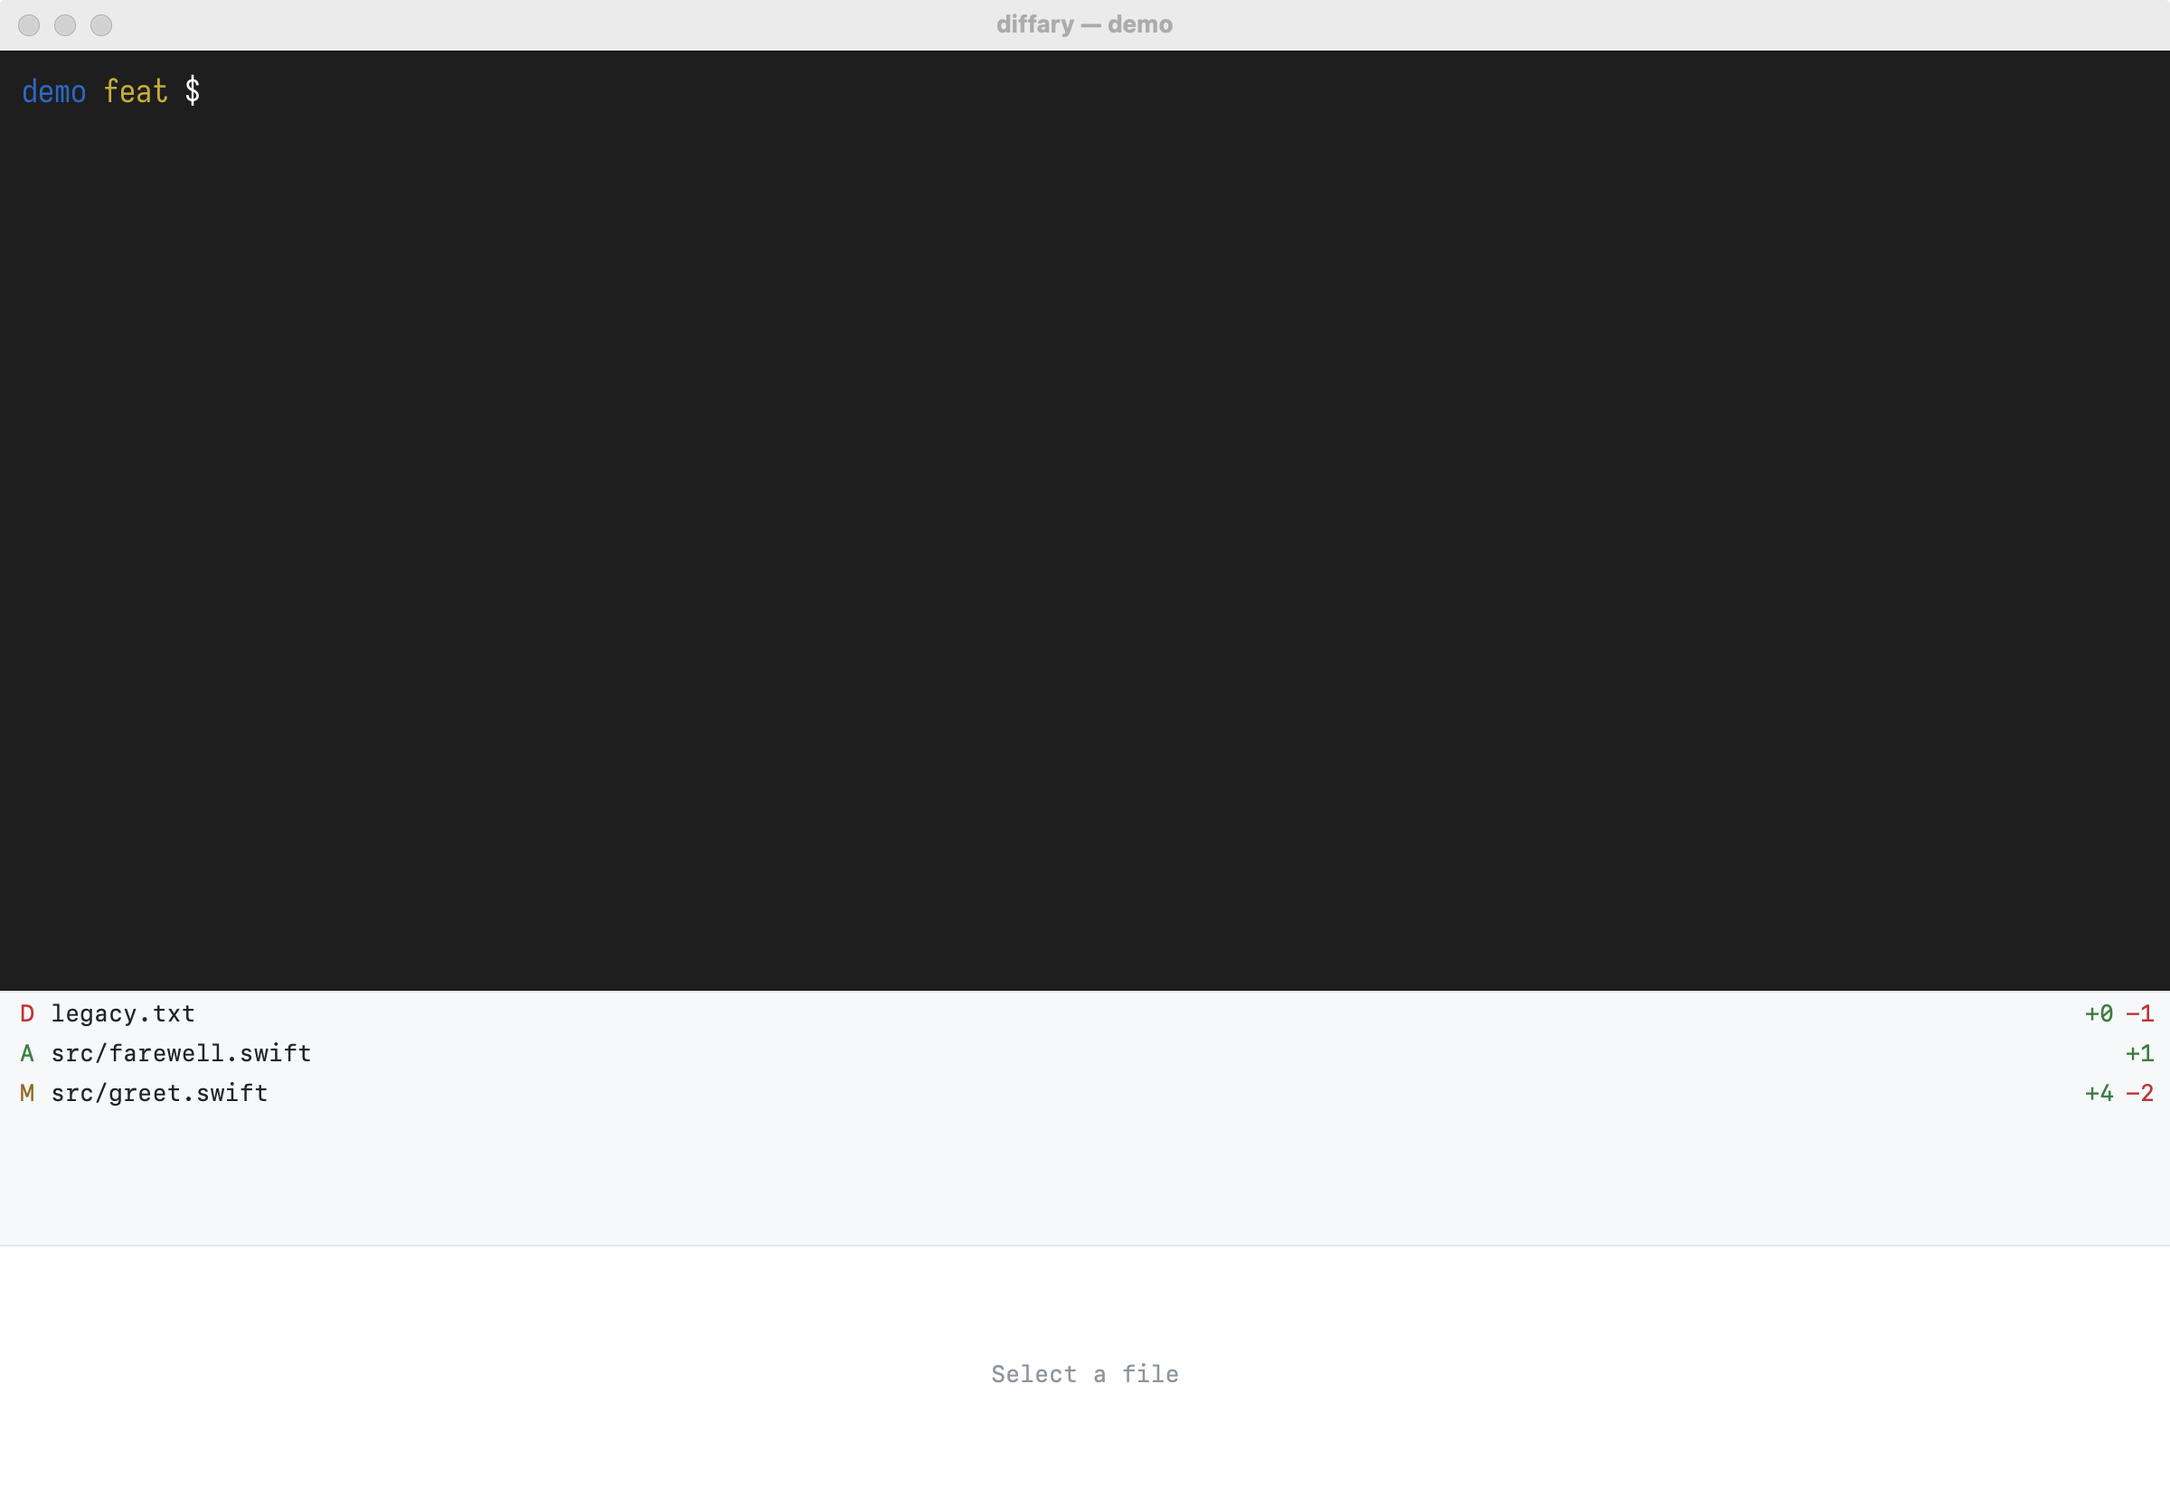
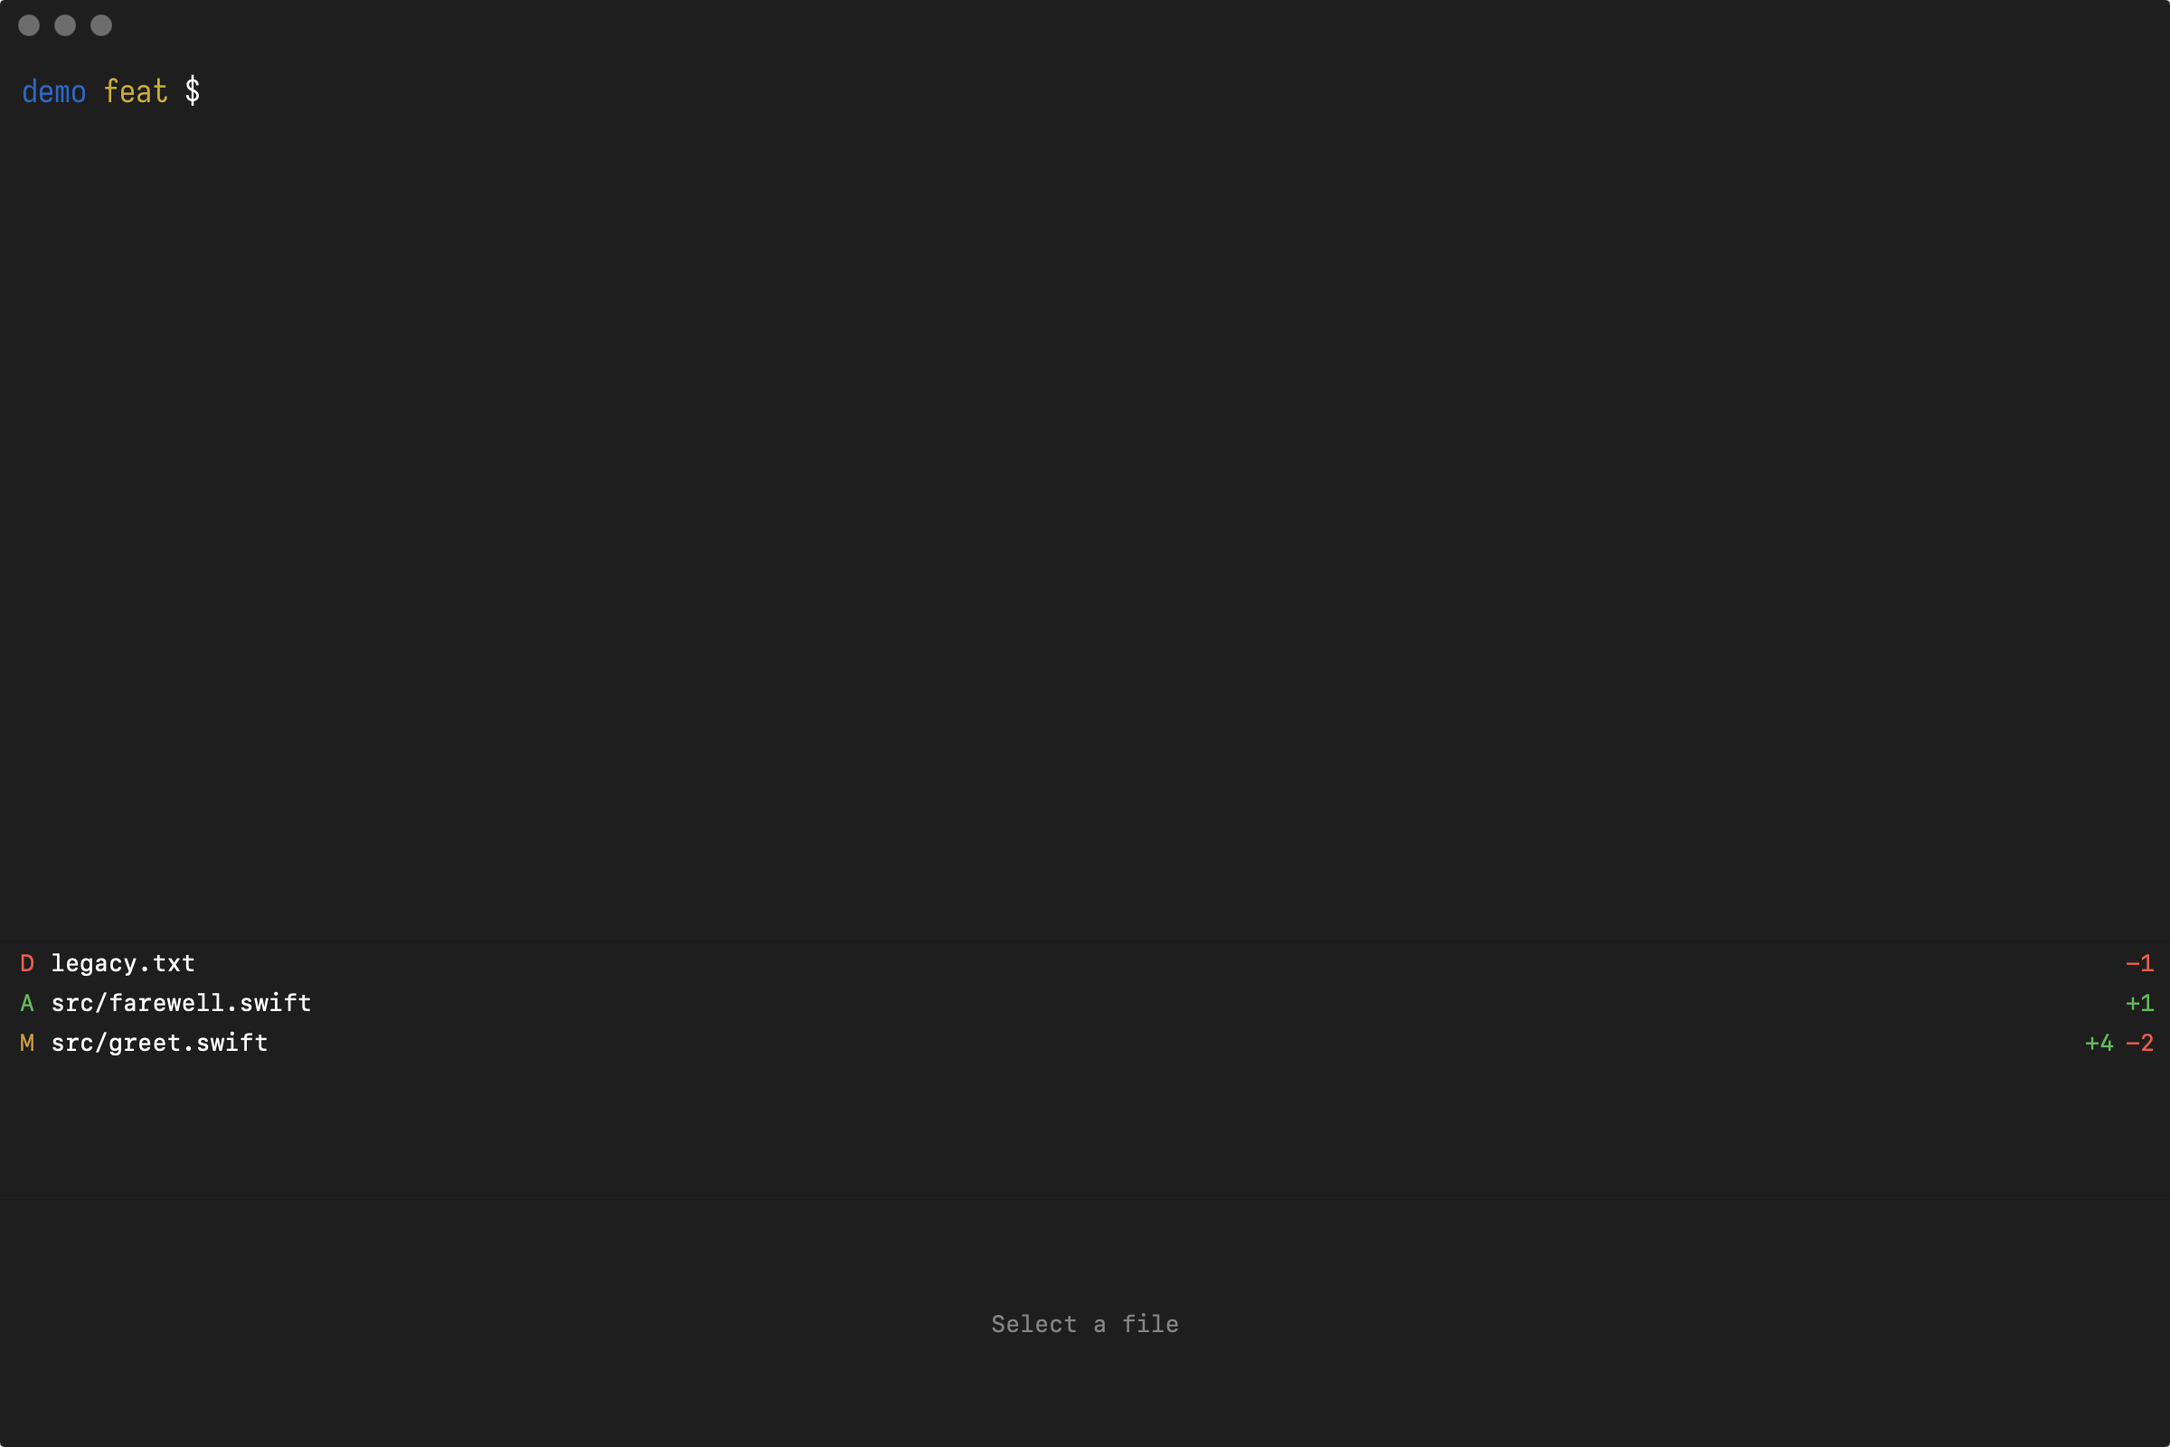
feat(app): hide title bar by default and match panel colors to the terminal
- appearance.titlebar (default false): traffic lights float over the content;
  each top pane gets a drag strip in its own color.
- theme = "ghostty" (new default): sidebar/diff use Ghostty's background,
  foreground and selection colors; diff/syntax colors from dark or light by
  background brightness.

diff --git a/Sources/Diffary/LayoutView.swift b/Sources/Diffary/LayoutView.swift
@@ -18,15 +18,36 @@ struct LayoutView: View {
     @ObservedObject var model: AppModel
     let terminal: TerminalView
 
+    /// Height of the hidden title bar: the strip the traffic lights float in.
+    private static let titlebarHeight: CGFloat = 28
+
     var body: some View {
+        panes.background(Color(model.theme.background)).ignoresSafeArea()
+    }
+
+    /// With the title bar hidden, each top-edge pane gets a drag strip in its own color.
+    @ViewBuilder private func topStrip(_ color: RGBA) -> some View {
+        if !model.settings.titlebar {
+            WindowDragArea().frame(height: Self.titlebarHeight).background(Color(color))
+        }
+    }
+
+    private var terminalColor: RGBA {
+        GhosttyRuntime.shared.terminalColors?.background ?? model.theme.background
+    }
+
+    private var panes: some View {
         let s = model.settings
-        GeometryReader { geo in
+        return GeometryReader { geo in
             let horizontal = s.sidebar != .bottom
             let total = horizontal ? geo.size.width : geo.size.height
             let side = total * s.sidebarSize
-            let main = mainArea.frame(width: horizontal ? total - side : nil,
+            let main = VStack(spacing: 0) { topStrip(terminalColor); mainArea }.frame(width: horizontal ? total - side : nil,
                                       height: horizontal ? nil : total - side)
-            let bar = sidebar.frame(maxWidth: .infinity, maxHeight: .infinity)
+            let bar = VStack(spacing: 0) {
+                if horizontal { topStrip(model.theme.sidebarBackground) }
+                sidebar
+            }.frame(maxWidth: .infinity, maxHeight: .infinity)
                 .frame(width: horizontal ? side : nil, height: horizontal ? nil : side)
             switch s.sidebar {
             case .right: HStack(spacing: 0) { main; Divider(); bar }
@@ -34,7 +55,6 @@ struct LayoutView: View {
             case .bottom: VStack(spacing: 0) { main; Divider(); bar }
             }
         }
-        .background(Color(model.theme.background))
     }
 
     /// Terminal, unless diff_position = replace_terminal and a file is selected.
@@ -65,4 +85,16 @@ struct LayoutView: View {
     private var diffPane: some View {
         DiffView(model: model).frame(maxWidth: .infinity, maxHeight: .infinity)
     }
+}
+
+/// Empty strip in the terminal's color that drags the window, standing in for
+/// the hidden title bar (the content views would otherwise swallow the drag).
+struct WindowDragArea: NSViewRepresentable {
+    final class DragView: NSView {
+        override func mouseDown(with event: NSEvent) {
+            if event.clickCount == 2 { window?.performZoom(nil) } else { window?.performDrag(with: event) }
+        }
+    }
+    func makeNSView(context: Context) -> NSView { DragView() }
+    func updateNSView(_ view: NSView, context: Context) {}
 }

diff --git a/Sources/DiffaryCore/Theme.swift b/Sources/DiffaryCore/Theme.swift
@@ -65,10 +65,44 @@ public struct Theme: Sendable, Equatable {
                  "number": c("#0550ae"), "type": c("#953800")])
 }
 
+/// The embedded terminal's own colors (from Ghostty's config).
+public struct TerminalColors: Sendable, Equatable {
+    public var background, foreground: RGBA
+    public var selection: RGBA?
+    public init(background: RGBA, foreground: RGBA, selection: RGBA?) {
+        self.background = background; self.foreground = foreground; self.selection = selection
+    }
+}
+
+extension RGBA {
+    /// Relative luminance, 0 (black) … 1 (white).
+    var luminance: Double { 0.2126 * r + 0.7152 * g + 0.0722 * b }
+
+    /// `self` moved `t` of the way toward `other`.
+    func mixed(with other: RGBA, _ t: Double) -> RGBA {
+        RGBA(r: r + (other.r - r) * t, g: g + (other.g - g) * t, b: b + (other.b - b) * t, a: 1)
+    }
+}
+
+extension Theme {
+    /// Panels in the terminal's colors; diff and syntax colors from the matching built-in.
+    public static func matching(_ t: TerminalColors) -> Theme {
+        var theme = t.background.luminance < 0.5 ? Theme.dark : Theme.light
+        theme.background = t.background
+        theme.sidebarBackground = t.background
+        theme.foreground = t.foreground
+        theme.selection = t.selection ?? t.background.mixed(with: t.foreground, 0.2)
+        theme.lineNumber = t.background.mixed(with: t.foreground, 0.45)
+        return theme
+    }
+}
+
 public enum ThemeLoader {
-    public static func resolve(name: String, systemIsDark: Bool, themesDir: URL) -> (theme: Theme, warnings: [String]) {
+    public static func resolve(name: String, systemIsDark: Bool, themesDir: URL,
+                               terminal: TerminalColors? = nil) -> (theme: Theme, warnings: [String]) {
         let auto = systemIsDark ? Theme.dark : Theme.light
         switch name {
+        case "ghostty": return (terminal.map(Theme.matching) ?? auto, [])
         case "auto": return (auto, [])
         case "dark": return (.dark, [])
         case "light": return (.light, [])

diff --git a/Sources/Diffary/GhosttyRuntime.swift b/Sources/Diffary/GhosttyRuntime.swift
@@ -1,4 +1,5 @@
 import AppKit
+import DiffaryCore
 import GhosttyKit
 
 /// Owns the one ghostty_app_t. Terminal fonts, colors and keys come from
@@ -8,6 +9,8 @@ final class GhosttyRuntime {
     static let shared = GhosttyRuntime()
     private(set) var app: ghostty_app_t?
     private(set) var error: String?
+    /// Kept for reading values back (colors); never freed, lives as long as the app.
+    private var config: ghostty_config_t?
 
     private init() {
         // ghostty_init may keep argv, so pass the process's own (lives forever).
@@ -18,6 +21,7 @@ final class GhosttyRuntime {
         ghostty_config_load_default_files(config)
         ghostty_config_load_recursive_files(config)
         ghostty_config_finalize(config)
+        self.config = config
 
         var runtime = ghostty_runtime_config_s(
             userdata: nil,
@@ -53,6 +57,19 @@ final class GhosttyRuntime {
         guard let app = ghostty_app_new(&runtime, config) else { error = "ghostty_app_new failed"; return }
         self.app = app
         ghostty_app_set_focus(app, NSApp.isActive)
+    }
+
+    /// The terminal's background/foreground/selection from Ghostty's config.
+    var terminalColors: TerminalColors? {
+        guard let bg = color("background"), let fg = color("foreground") else { return nil }
+        return TerminalColors(background: bg, foreground: fg, selection: color("selection-background"))
+    }
+
+    private func color(_ key: String) -> RGBA? {
+        guard let config else { return nil }
+        var c = ghostty_config_color_s()
+        guard ghostty_config_get(config, &c, key, UInt(key.utf8.count)) else { return nil }
+        return RGBA(r: Double(c.r) / 255, g: Double(c.g) / 255, b: Double(c.b) / 255, a: 1)
     }
 
     func tick() {

diff --git a/Sources/Diffary/AppDelegate.swift b/Sources/Diffary/AppDelegate.swift
@@ -1,4 +1,5 @@
 import AppKit
+import Combine
 import DiffaryCore
 import SwiftUI
 
@@ -7,6 +8,7 @@ final class AppDelegate: NSObject, NSApplicationDelegate, NSWindowDelegate {
     var window: NSWindow?
     var terminal: TerminalView?
     var model: AppModel?
+    private var titlebarSub: AnyCancellable?
 
     init(launch: Launch) { self.launch = launch }
 
@@ -22,12 +24,22 @@ final class AppDelegate: NSObject, NSApplicationDelegate, NSWindowDelegate {
         let model = AppModel(launch: launch)
         self.model = model
         window.contentView = NSHostingView(rootView: LayoutView(model: model, terminal: terminal))
+        // Follow appearance.titlebar live (config reload).
+        titlebarSub = model.$settings.map(\.titlebar).removeDuplicates()
+            .sink { [weak window] show in window.map { Self.setTitlebar($0, visible: show) } }
         window.center()
         window.makeKeyAndOrderFront(nil)
         window.makeFirstResponder(terminal)
         self.window = window
         // No NSApp.activate(): `open` activates on a normal launch, and
         // `open -g` (scripts, screenshots) must leave focus alone.
+    }
+
+    /// Hidden = no title strip; traffic lights float over the content.
+    static func setTitlebar(_ window: NSWindow, visible: Bool) {
+        if visible { window.styleMask.remove(.fullSizeContentView) } else { window.styleMask.insert(.fullSizeContentView) }
+        window.titlebarAppearsTransparent = !visible
+        window.titleVisibility = visible ? .visible : .hidden
     }
 
     func windowShouldClose(_ sender: NSWindow) -> Bool { terminal?.confirmClose() ?? true }

diff --git a/Tests/DiffaryCoreTests/ThemeTests.swift b/Tests/DiffaryCoreTests/ThemeTests.swift
@@ -54,3 +54,33 @@ import Testing
         #expect(warnings.count == 2)
     }
 }
+
+@Suite struct TerminalThemeTests {
+    let dir = FileManager.default.temporaryDirectory
+
+    @Test func ghosttyThemeUsesTerminalColorsOnDarkBase() {
+        let term = TerminalColors(background: RGBA(hex: "#1e1e2e")!, foreground: RGBA(hex: "#cdd6f4")!,
+                                  selection: RGBA(hex: "#313244")!)
+        let (theme, warnings) = ThemeLoader.resolve(name: "ghostty", systemIsDark: false, themesDir: dir, terminal: term)
+        #expect(warnings.isEmpty)
+        #expect(theme.isDark)
+        #expect(theme.background == term.background)
+        #expect(theme.foreground == term.foreground)
+        #expect(theme.selection == term.selection)
+        #expect(theme.sidebarBackground == term.background)
+        #expect(theme.addedFg == Theme.dark.addedFg)
+        #expect(theme.syntax == Theme.dark.syntax)
+    }
+
+    @Test func lightTerminalPicksLightBaseAndDerivesSelection() {
+        let term = TerminalColors(background: RGBA(hex: "#ffffff")!, foreground: RGBA(hex: "#000000")!, selection: nil)
+        let theme = ThemeLoader.resolve(name: "ghostty", systemIsDark: true, themesDir: dir, terminal: term).theme
+        #expect(!theme.isDark)
+        #expect(theme.addedFg == Theme.light.addedFg)
+        #expect(theme.selection != term.background)
+    }
+
+    @Test func ghosttyWithoutTerminalColorsFallsBackToAuto() {
+        #expect(ThemeLoader.resolve(name: "ghostty", systemIsDark: true, themesDir: dir, terminal: nil).theme == .dark)
+    }
+}

diff --git a/Sources/DiffaryCore/Settings.swift b/Sources/DiffaryCore/Settings.swift
@@ -18,7 +18,8 @@ public struct Settings: Sendable, Equatable {
     public var syntaxHighlight = true
     public var font = "JetBrains Mono"
     public var fontSize = 13.0
-    public var theme = "auto"
+    public var theme = "ghostty"
+    public var titlebar = false
     public init() {}
 
     public var diffOptions: DiffOptions {
@@ -100,6 +101,7 @@ public enum SettingsLoader {
         "appearance.font": { s, v in guard !v.isEmpty else { return false }; s.font = v; return true },
         "appearance.font_size": { s, v in set(&s.fontSize, Double(v).flatMap { (6...72).contains($0) ? $0 : nil }) },
         "appearance.theme": { s, v in guard !v.isEmpty else { return false }; s.theme = v; return true },
+        "appearance.titlebar": { s, v in set(&s.titlebar, Bool(v)) },
     ]
 
     private static func set<T>(_ target: inout T, _ value: T?) -> Bool {

diff --git a/Sources/Diffary/AppModel.swift b/Sources/Diffary/AppModel.swift
@@ -49,7 +49,8 @@ final class AppModel: ObservableObject {
     func reloadSettings() {
         let load = SettingsLoader.load(file: launch.configFile, overrides: launch.overrides)
         let isDark = NSApp.effectiveAppearance.bestMatch(from: [.darkAqua, .aqua]) == .darkAqua
-        let resolved = ThemeLoader.resolve(name: load.settings.theme, systemIsDark: isDark, themesDir: themesDir)
+        let resolved = ThemeLoader.resolve(name: load.settings.theme, systemIsDark: isDark, themesDir: themesDir,
+                                           terminal: GhosttyRuntime.shared.terminalColors)
         let baseChanged = load.settings.baseBranch != settings.baseBranch
         let diffChanged = load.settings.diffOptions != settings.diffOptions
         // Only publish real changes: every config-dir event lands here.

diff --git a/Tests/DiffaryCoreTests/SettingsTests.swift b/Tests/DiffaryCoreTests/SettingsTests.swift
@@ -86,3 +86,16 @@ import Testing
                 == "/h/.config/diffary/config.toml")
     }
 }
+
+@Suite struct AppearanceDefaultsTests {
+    @Test func defaultsMatchTerminalAndHideTitlebar() {
+        #expect(Settings().theme == "ghostty")
+        #expect(Settings().titlebar == false)
+    }
+
+    @Test func titlebarCanBeTurnedOn() {
+        let load = SettingsLoader.load(file: URL(fileURLWithPath: "/nonexistent"), overrides: ["appearance.titlebar": "true"])
+        #expect(load.settings.titlebar)
+        #expect(load.warnings.isEmpty)
+    }
+}

diff --git a/README.md b/README.md
@@ -4,9 +4,9 @@ A Ghostty terminal with a live sidebar of what your branch changed vs its base.
 
 ![unified diff](docs/screenshots/diff-unified.png)
 
-| side-by-side | dark theme | sidebar at bottom |
+| side-by-side | light theme | sidebar at bottom |
 |---|---|---|
-| ![](docs/screenshots/diff-side-by-side.png) | ![](docs/screenshots/diff-dark.png) | ![](docs/screenshots/sidebar-bottom.png) |
+| ![](docs/screenshots/diff-side-by-side.png) | ![](docs/screenshots/diff-light.png) | ![](docs/screenshots/sidebar-bottom.png) |
 
 Regenerate: `scripts/screenshot.sh docs/screenshots/<name>.png [diffary flags]`
 
@@ -48,7 +48,8 @@ syntax_highlight = true
 [appearance]
 font = "JetBrains Mono"       # falls back to system monospace if missing
 font_size = 13
-theme = "auto"                # auto | light | dark | <user theme name>
+theme = "ghostty"             # ghostty (match the terminal) | auto | light | dark | <user theme name>
+titlebar = false              # true shows the window title bar
 ```
 
 See `docs/superpowers/specs/2026-11-04-diffary-design.md` for every key and the theme format.

diff --git a/docs/superpowers/specs/2026-11-04-diffary-design.md b/docs/superpowers/specs/2026-11-04-diffary-design.md
@@ -73,7 +73,8 @@ syntax_highlight = true
 [appearance]
 font = "JetBrains Mono"       # falls back to system monospace if missing
 font_size = 13
-theme = "auto"                # auto | light | dark | <user theme name>
+theme = "ghostty"             # ghostty (match the terminal) | auto | light | dark | <user theme name>
+titlebar = false              # true shows the window title bar
 ```
 
 Invalid values fall back to the default for that key and show one warning line
@@ -85,7 +86,9 @@ as usual.
 
 ## Themes
 
-Built-in: `light`, `dark`. `auto` follows macOS appearance.
+Built-in: `light`, `dark`. `auto` follows macOS appearance. `ghostty` (default)
+uses the terminal's background, foreground and selection colors from Ghostty's
+config, with diff and syntax colors from `dark` or `light` by background brightness.
 
 User themes: `$XDG_CONFIG_HOME/diffary/themes/<name>.toml`, selected with
 `theme = "<name>"`. Any key missing falls back to the built-in `dark` (or
